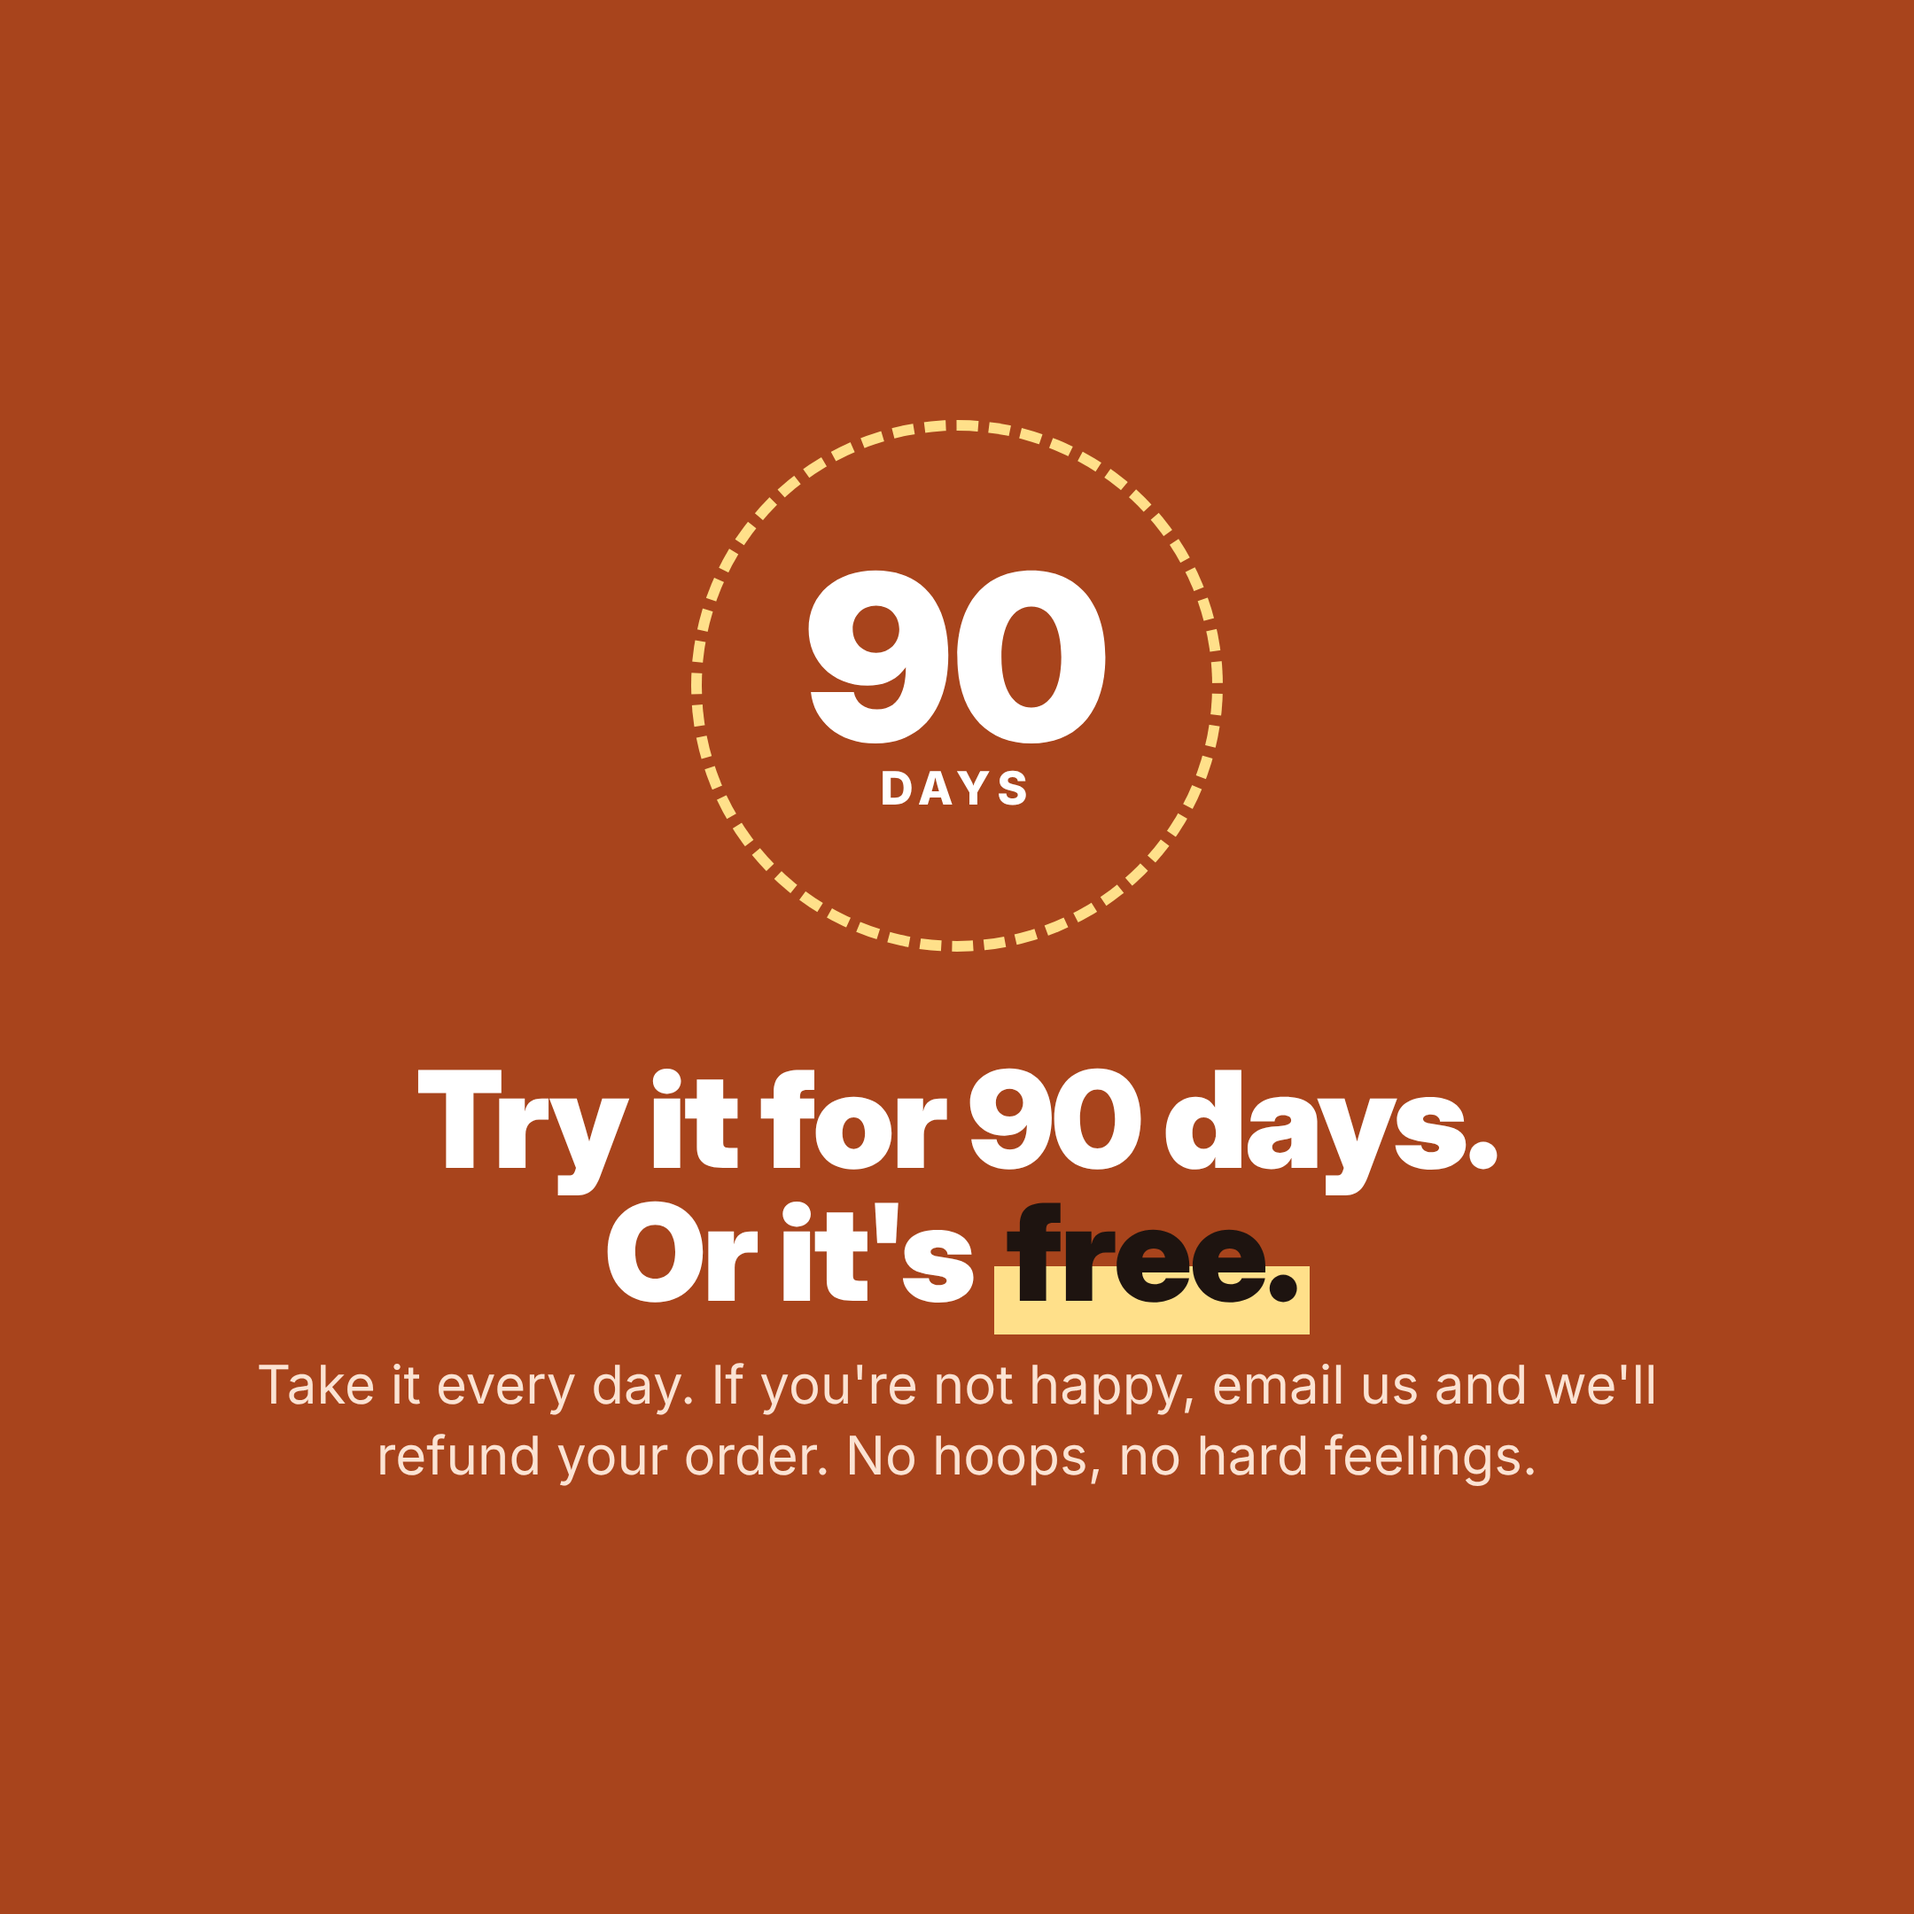
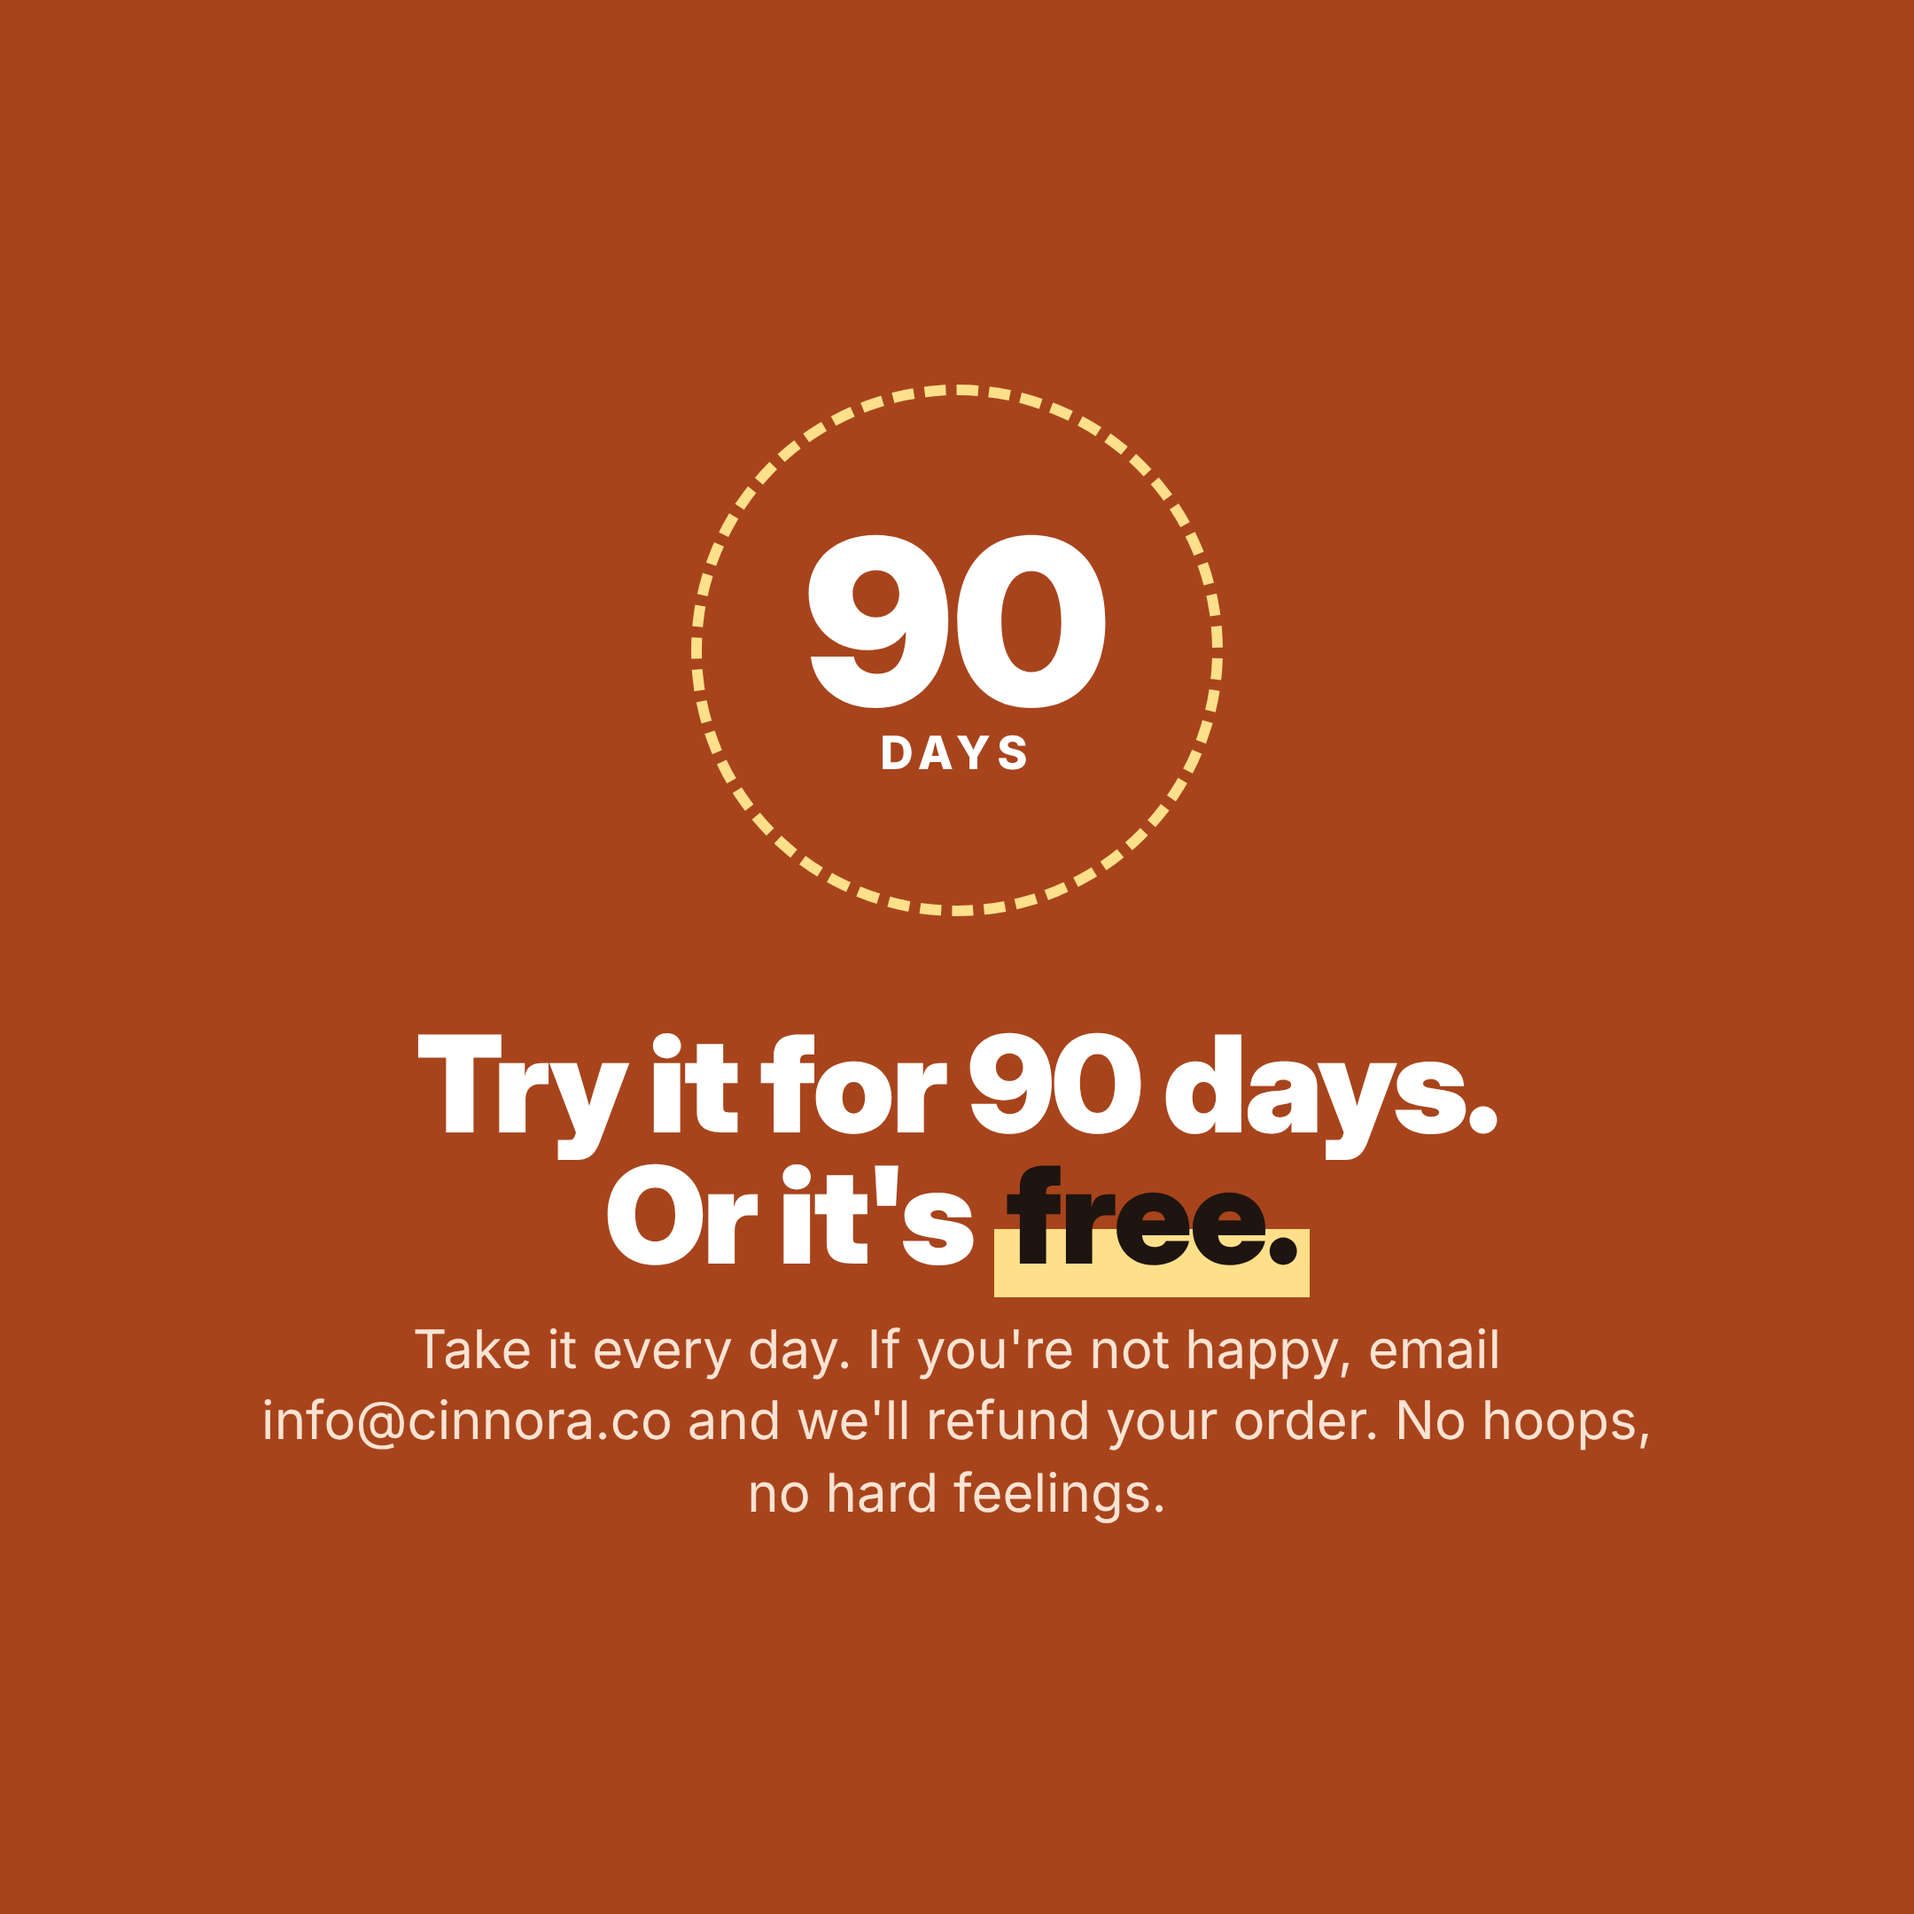
Carousel guarantee slide shows info@cinnora.co
Claude-Session: https://claude.ai/code/session_01WXdKv4Lmy6DFabBeRvSUZr

diff --git a/ceylon-cinnamon/carousel/slides.html b/ceylon-cinnamon/carousel/slides.html
@@ -161,7 +161,7 @@ h1 em{font-style:normal;background:linear-gradient(transparent 58%,var(--butter)
 <div class="s fire" id="s9" style="justify-content:center;align-items:center;text-align:center">
   <div style="width:300px;height:300px;border-radius:50%;border:6px dashed var(--butter);display:grid;place-items:center;margin-bottom:40px"><div><div style="font-family:'Inter Display';font-size:130px;font-weight:900;line-height:.9">90</div><div style="font-size:26px;font-weight:800;letter-spacing:.14em">DAYS</div></div></div>
   <h1 style="font-size:76px">Try it for 90 days.<br>Or it's <em style="color:var(--ink)">free.</em></h1>
-  <p class="sub" style="max-width:820px">Take it every day. If you're not happy, email us and we'll refund your order. No hoops, no hard feelings.</p>
+  <p class="sub" style="max-width:820px">Take it every day. If you're not happy, email info@cinnora.co and we'll refund your order. No hoops, no hard feelings.</p>
 </div>
 
 <!-- 10 GIFT -->
